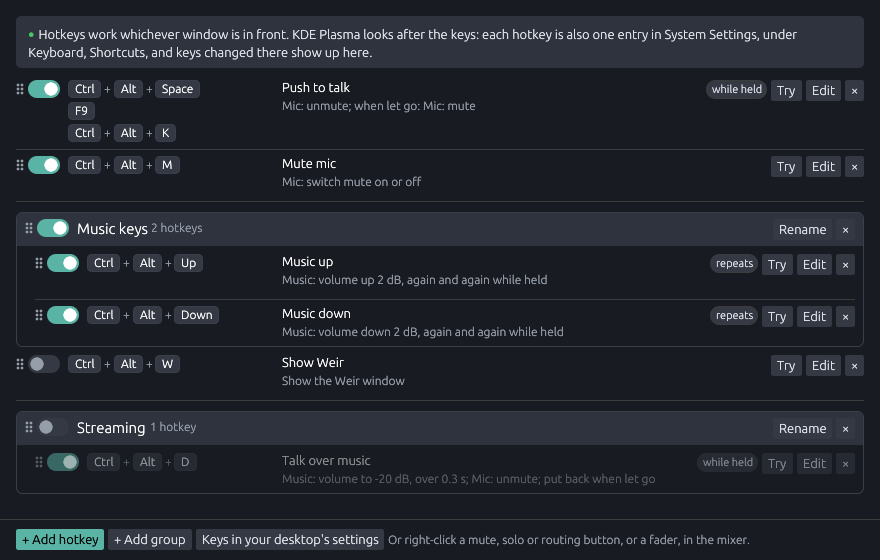
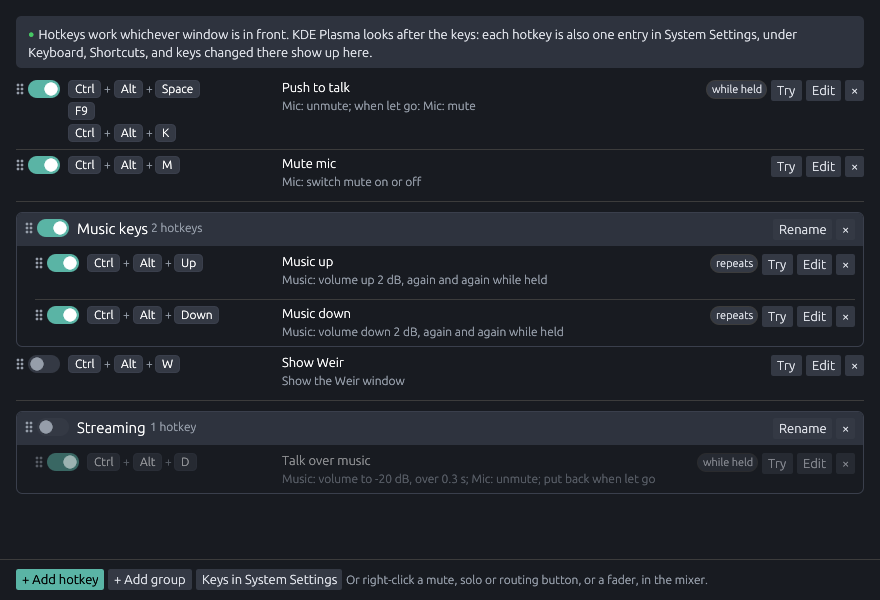
Retake the screenshots for 1.2.0, and add two
The mixer now shows the Hotkeys button, an EXT badge for external
effects and a fifth strip; the strip settings window shows Ext FX in
its chain; the Hotkeys list shows "Keys in System Settings" as on
Plasma; the hotkey editor has Group and Export…; the import window is
from 1.2.0 and shows a hotkey that works with a setup in the file.
New: the Setups menu with a setup's scenes beside it, and a bus's
delay, both in the user guide.

Claude-Session: https://claude.ai/code/session_01PWaMWDrXpfpALWtEnsyueZ

Changed region(s): [[0.0, 0.0304, 0.9818, 0.8804], [0.0307, 0.9411, 0.8591, 1.0]]

diff --git a/docs/USER_GUIDE.md b/docs/USER_GUIDE.md
@@ -396,6 +396,8 @@ The signal chain at the top of the window shows a **Delay** stage when it
 is on. Everything on that bus is delayed, so a video's sound plays that
 much after its picture.
 
+![A bus's delay in its settings window](images/bus-delay.png)
+
 ### External effects
 
 Weir's own effects are the ones voices need most. For anything else, such
@@ -556,6 +558,8 @@ in one go. A scene with a mix for strips or buses the setup does not have
 says so in yellow ("1 missing", the names when you point at it). It still
 loads, and does what it can with the strips that are there. The Scenes
 menu says the same against the mixer you have now.
+
+![The Setups menu, with the scenes beside a setup](images/setups-menu.png)
 
 Weir 1.2.0 told the two apart. Before, a setup kept the whole mixer, but
 loading one kept the levels you had, so most of what it held about the
